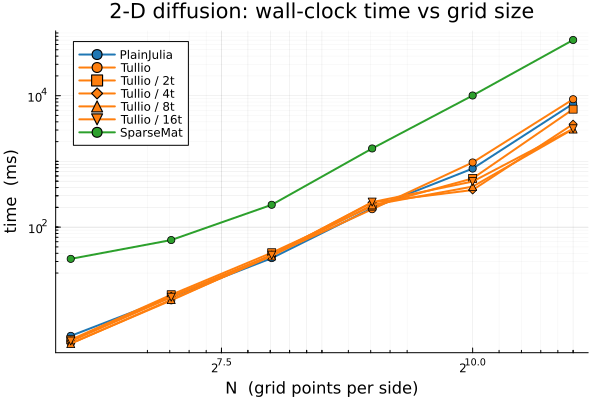
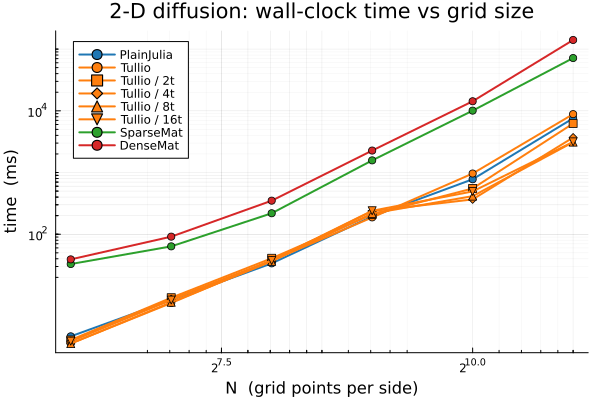
Add dense matrix multiplication for comparison

diff --git a/test_2ddiffusion/lessons.md b/test_2ddiffusion/lessons.md
@@ -1,0 +1,7 @@
+
+# What did we find
+
+- Allocating a new array for the diffusion operator is about 2x slower than reusing a preallocated array and mutating it in-place. This is not surprising, but it's good to have a concrete number for this problem size.
+- Adding if statements in the inner loop is much slower than computing the diffusion operator on the interior only and leaving the boundary rows/cols of the output array zero. This is because the if statements prevent vectorization and other optimizations.
+- Tullio makes multi-threading easy. This is only faster for larger arrays.
+- Sparse arrays are much slower than native or Tullio. They are surprisingly slow compared to dense arrays, even though the diffusion operator is very sparse. This is likely because of the overhead of the sparse array data structure and the fact that we are only doing a few operations per nonzero element?
